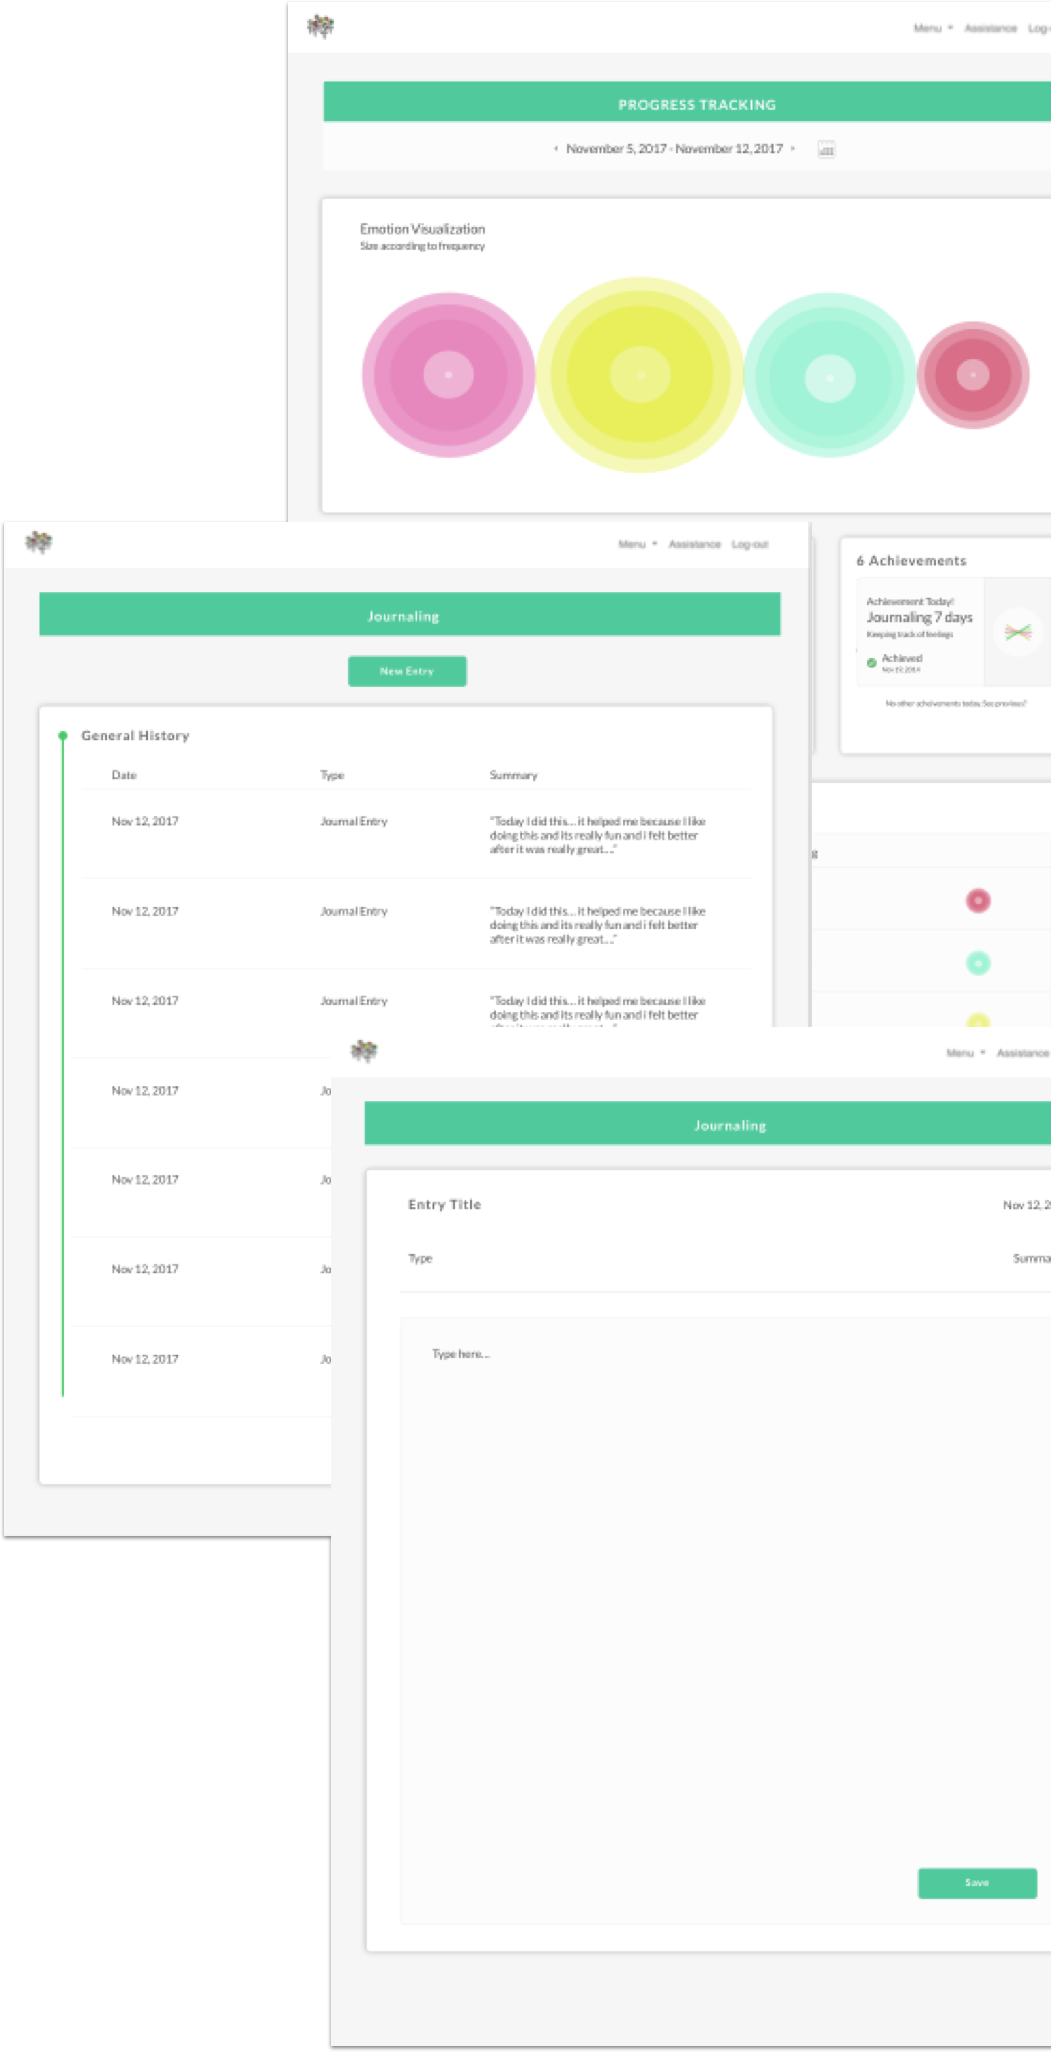
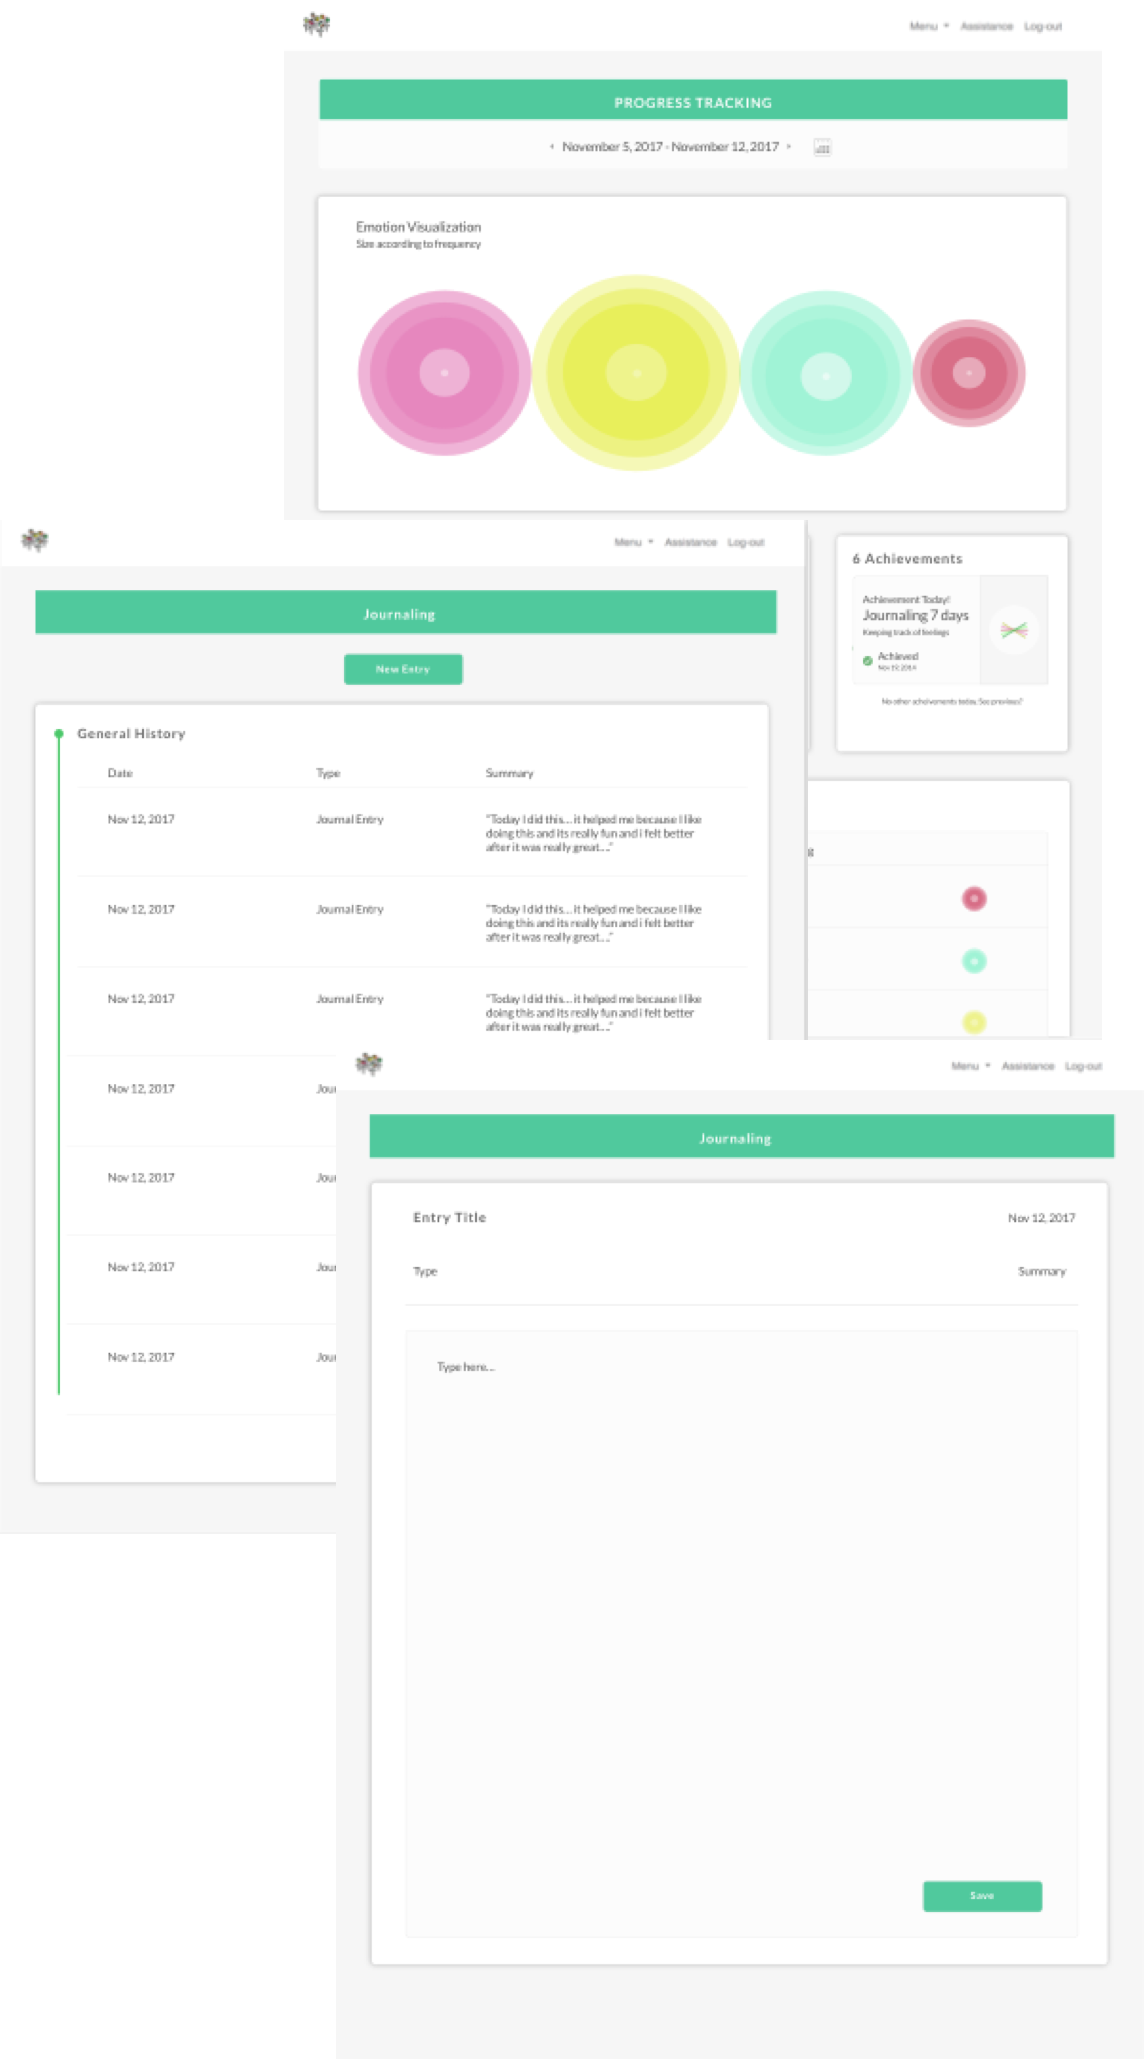
fixed issues

diff --git a/home.html b/home.html
@@ -24,15 +24,9 @@
     <div id="myModal" class="modal fade">
         <div class="modal-dialog modal-radius" role="document">
             <div class="modal-content">
-                <div class="modal-header bck-green">
-                    <h5 class="modal-title">Good morning Daniel!</h5>
-                    <button type="button" class="close" data-dismiss="modal" aria-label="Close">
-          <span aria-hidden="true">&times;</span>
-        </button>
-                </div>
                 <div class="modal-body">
                     <p class="text-center">How are you feeling right now?</p>
-                    <img class="container feeling d-flex justify-content-center" src="assets/feeling_picker2.png">
+                    <img class="container pad feeling d-flex justify-content-center" src="assets/feeling_picker2.png">
                     <form>
 <div class="form-group">
   <textarea class="form-control" rows="5" id="comment" placeholder="Why do you feel this way? You can write about it here."></textarea>
@@ -131,7 +125,7 @@
                                         <div class="row">
                                             <div class="col-xs-8 col-md-8 col-lg-8 col-xl-8">
                                                 <h5 class="text_inner_card">Does anyone feel lonely?</h5>
-                                                <p class="text_inner_card_p">Dealing with lonliness</p>
+                                                <p class="text_inner_card_p">Dealing with loneliness</p>
 
                                             </div>
                                             <div class="col-xs-4 col-md-4 col-lg-4 col-xl-4">

diff --git a/big-bro-big-sis.html b/big-bro-big-sis.html
@@ -64,10 +64,6 @@
             </div>
         </div>
         <div class="row">
-            <div class="col-xs-8 col-sm-8 col-md-8 col-lg-8">
-               <a href="home.html"><button class="card-button">Send an Email</button></a>
-                
-            </div>
             <div class=" top-pad col-xs-2 col-sm-2 col-md-2 col-lg-2">
                 <a>Inbox</a>
             </div>
@@ -75,7 +71,10 @@
                 <a>Sent</a>
             </div>
 
-
+            <div class="col-xs-8 col-sm-8 col-md-8 col-lg-8">
+               <a href="home.html"><button class="card-button float-right">Send an Email</button></a>
+                
+            </div>
 
         </div>
         <div class="card card-rounded card-main-margin card-radius-shadow">
@@ -146,7 +145,7 @@
                 <div class="card card-rounded card-main-margin card-radius-shadow">
             <div class="card-block">
 <h5 class="card_header_padding">Send a letter to Amal</h5>
-            <p class="card_text_padding">14 Tottenham Court Road <br>
+            <p class="card_header_padding">14 Tottenham Court Road <br>
 Nunavut Canada <br>
 W1T 1JY</p>
 

diff --git a/css/main.css b/css/main.css
@@ -71,7 +71,7 @@ footer {
 .person-name span {
     color: white;
     font-family: 'Lato', sans-serif;
-    font-size:20px;
+    font-size:25px/45px;
     background: #56C89E;
     padding-top: 10px;
     padding-bottom: 10px;
@@ -377,6 +377,12 @@ p2 {
     padding-top: 20px;
     padding-right: 20px;
     padding-left: 26px;
+    padding-bottom: 10px;
+    color: #656565;
+}
+.card_header2_padding {
+    padding-right: 20px;
+    padding-left: 26px;
     color: #656565;
 }
 
@@ -427,6 +433,7 @@ p2 {
     border-radius: 10px;
     margin-top: 30px;
     margin-left: 30px;
+    margin-right:30px;
 }
 
 .login-button {

diff --git a/your-progress.html b/your-progress.html
@@ -89,7 +89,7 @@
                         <div class="row">
                             <div class="col-xs-12 col-md-12 col-lg-12 col-xl-12 ">
                                 <p class="card_header_padding">Emotion Visualization</p>
-                                <p class="card_text_padding">Size according to frequency</p>
+                                <p class="card_header2_padding">Size according to frequency</p>
                                 <img class="emotion-visual pad" src="assets/emotion%20visual.png" </div>
                             </div>
                         </div>

diff --git a/community.html b/community.html
@@ -64,7 +64,7 @@
         </div>
         <div class="row">
             <div class="col-xs-6 col-sm-6 col-md-6 col-lg-6">
-                <button class="card-button">New Thread</button>
+                <a href="home.html"><button class="card-button">New Thread</button></a>
             </div>
             <div class=" top-pad col-xs-2 col-sm-2 col-md-2 col-lg-2">
                 <a>Recent</a>
